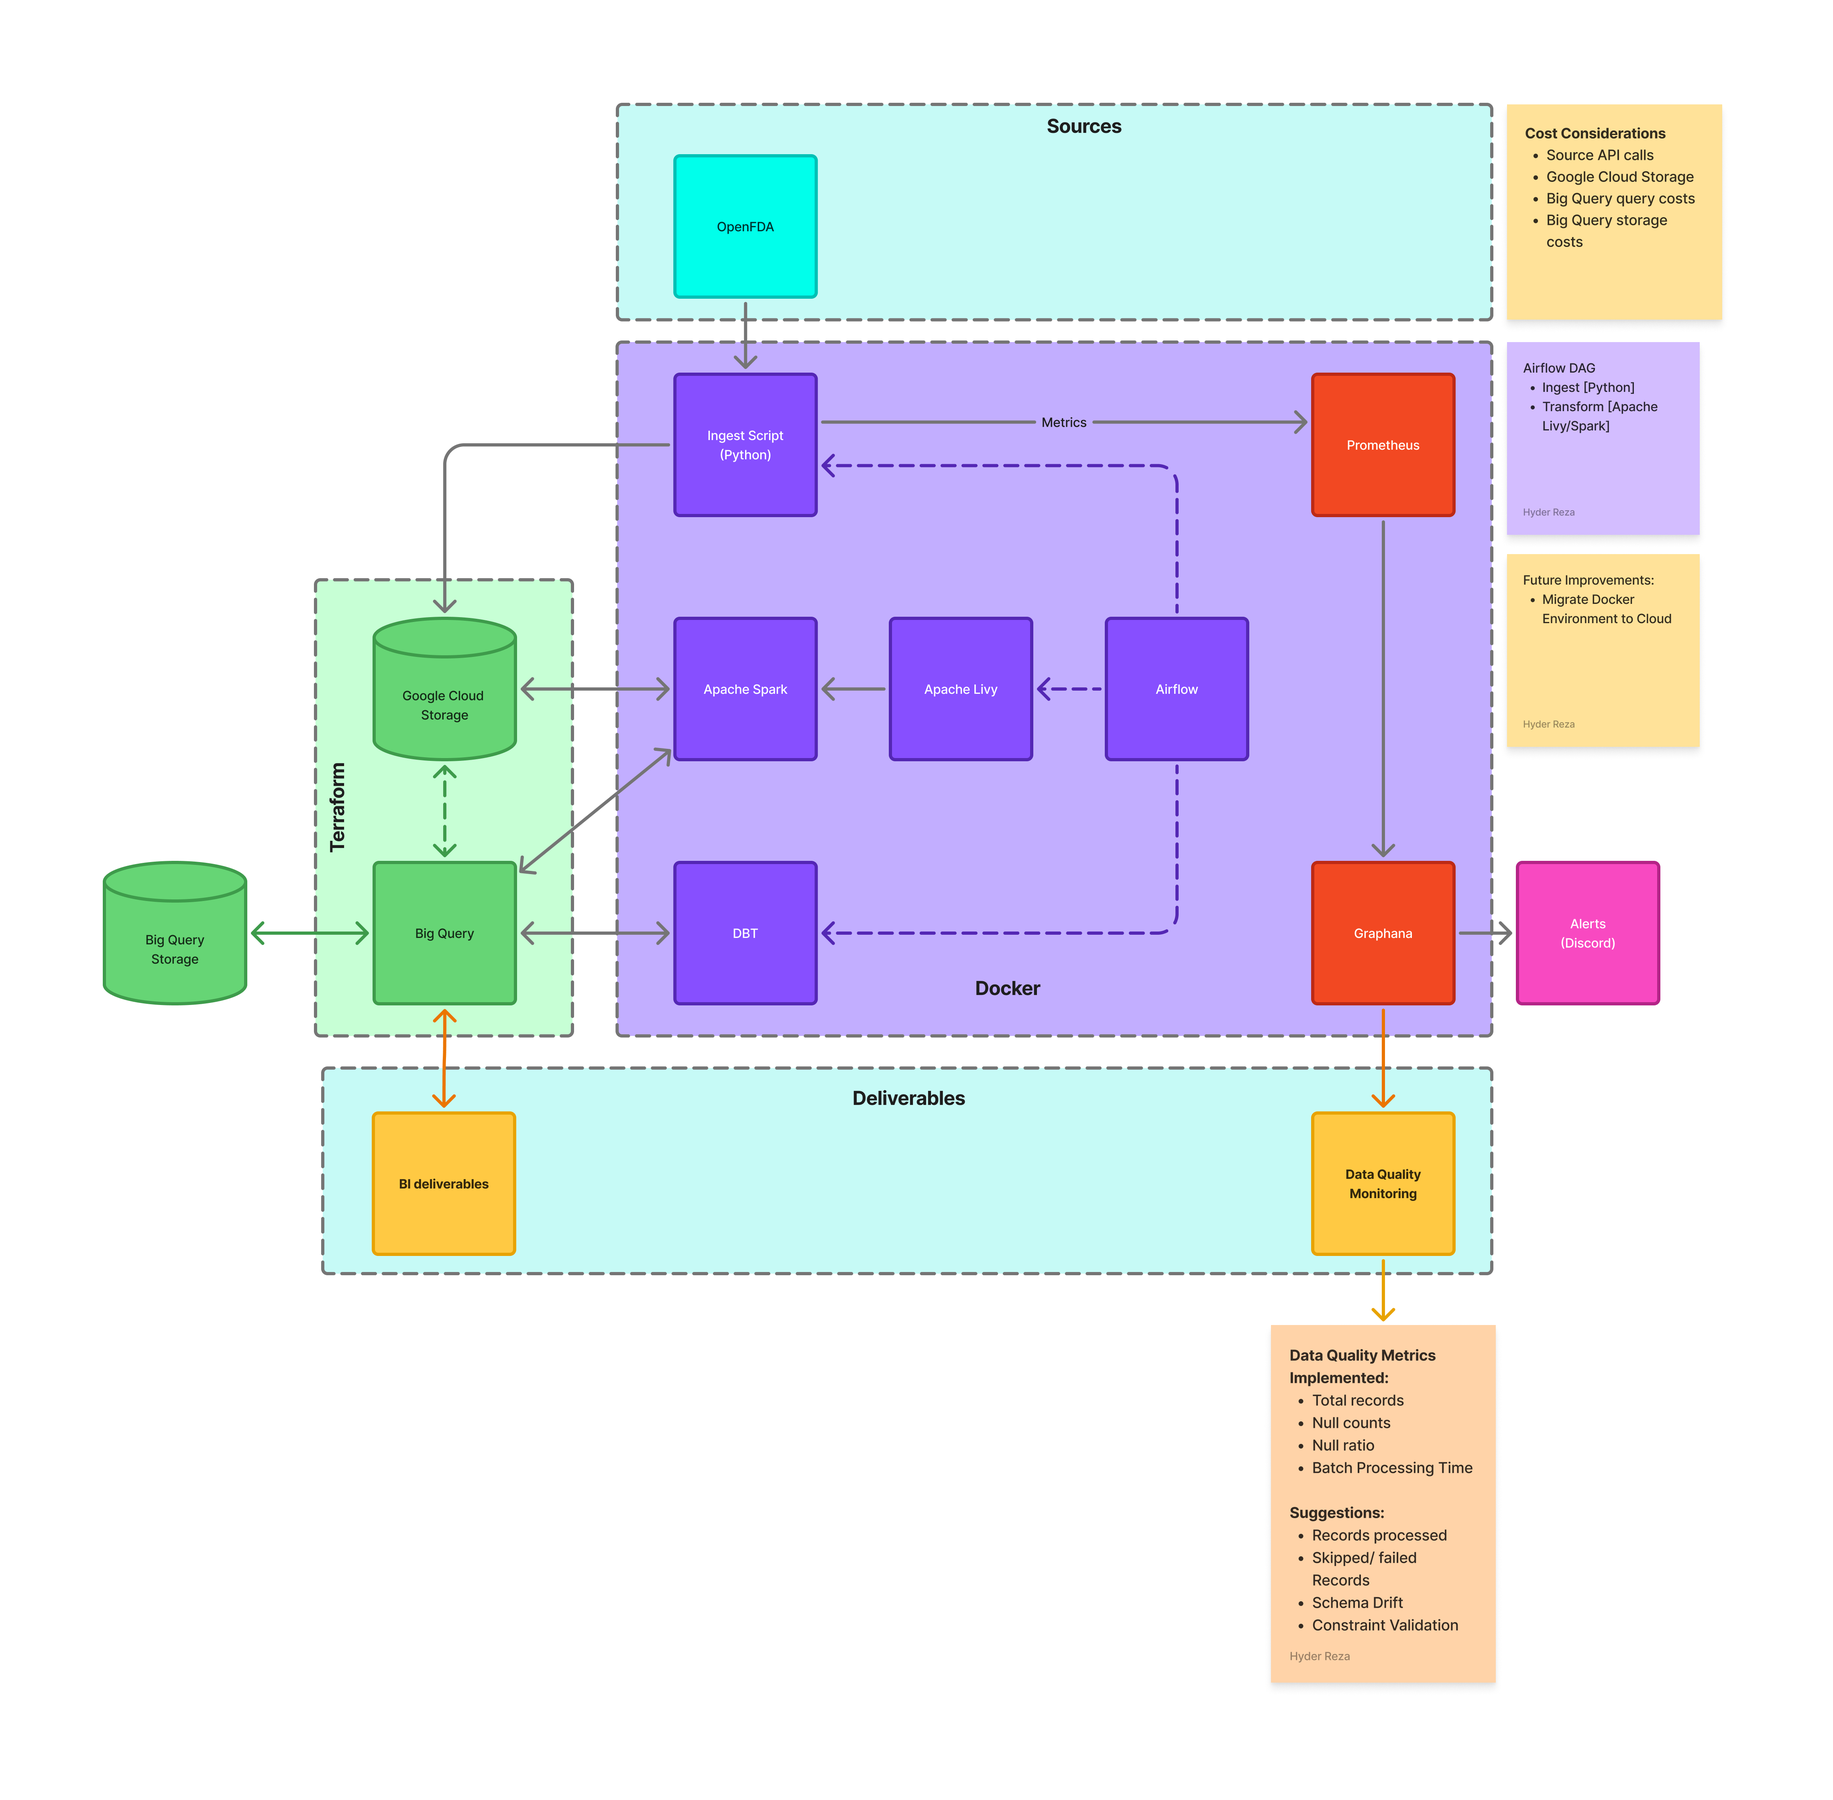
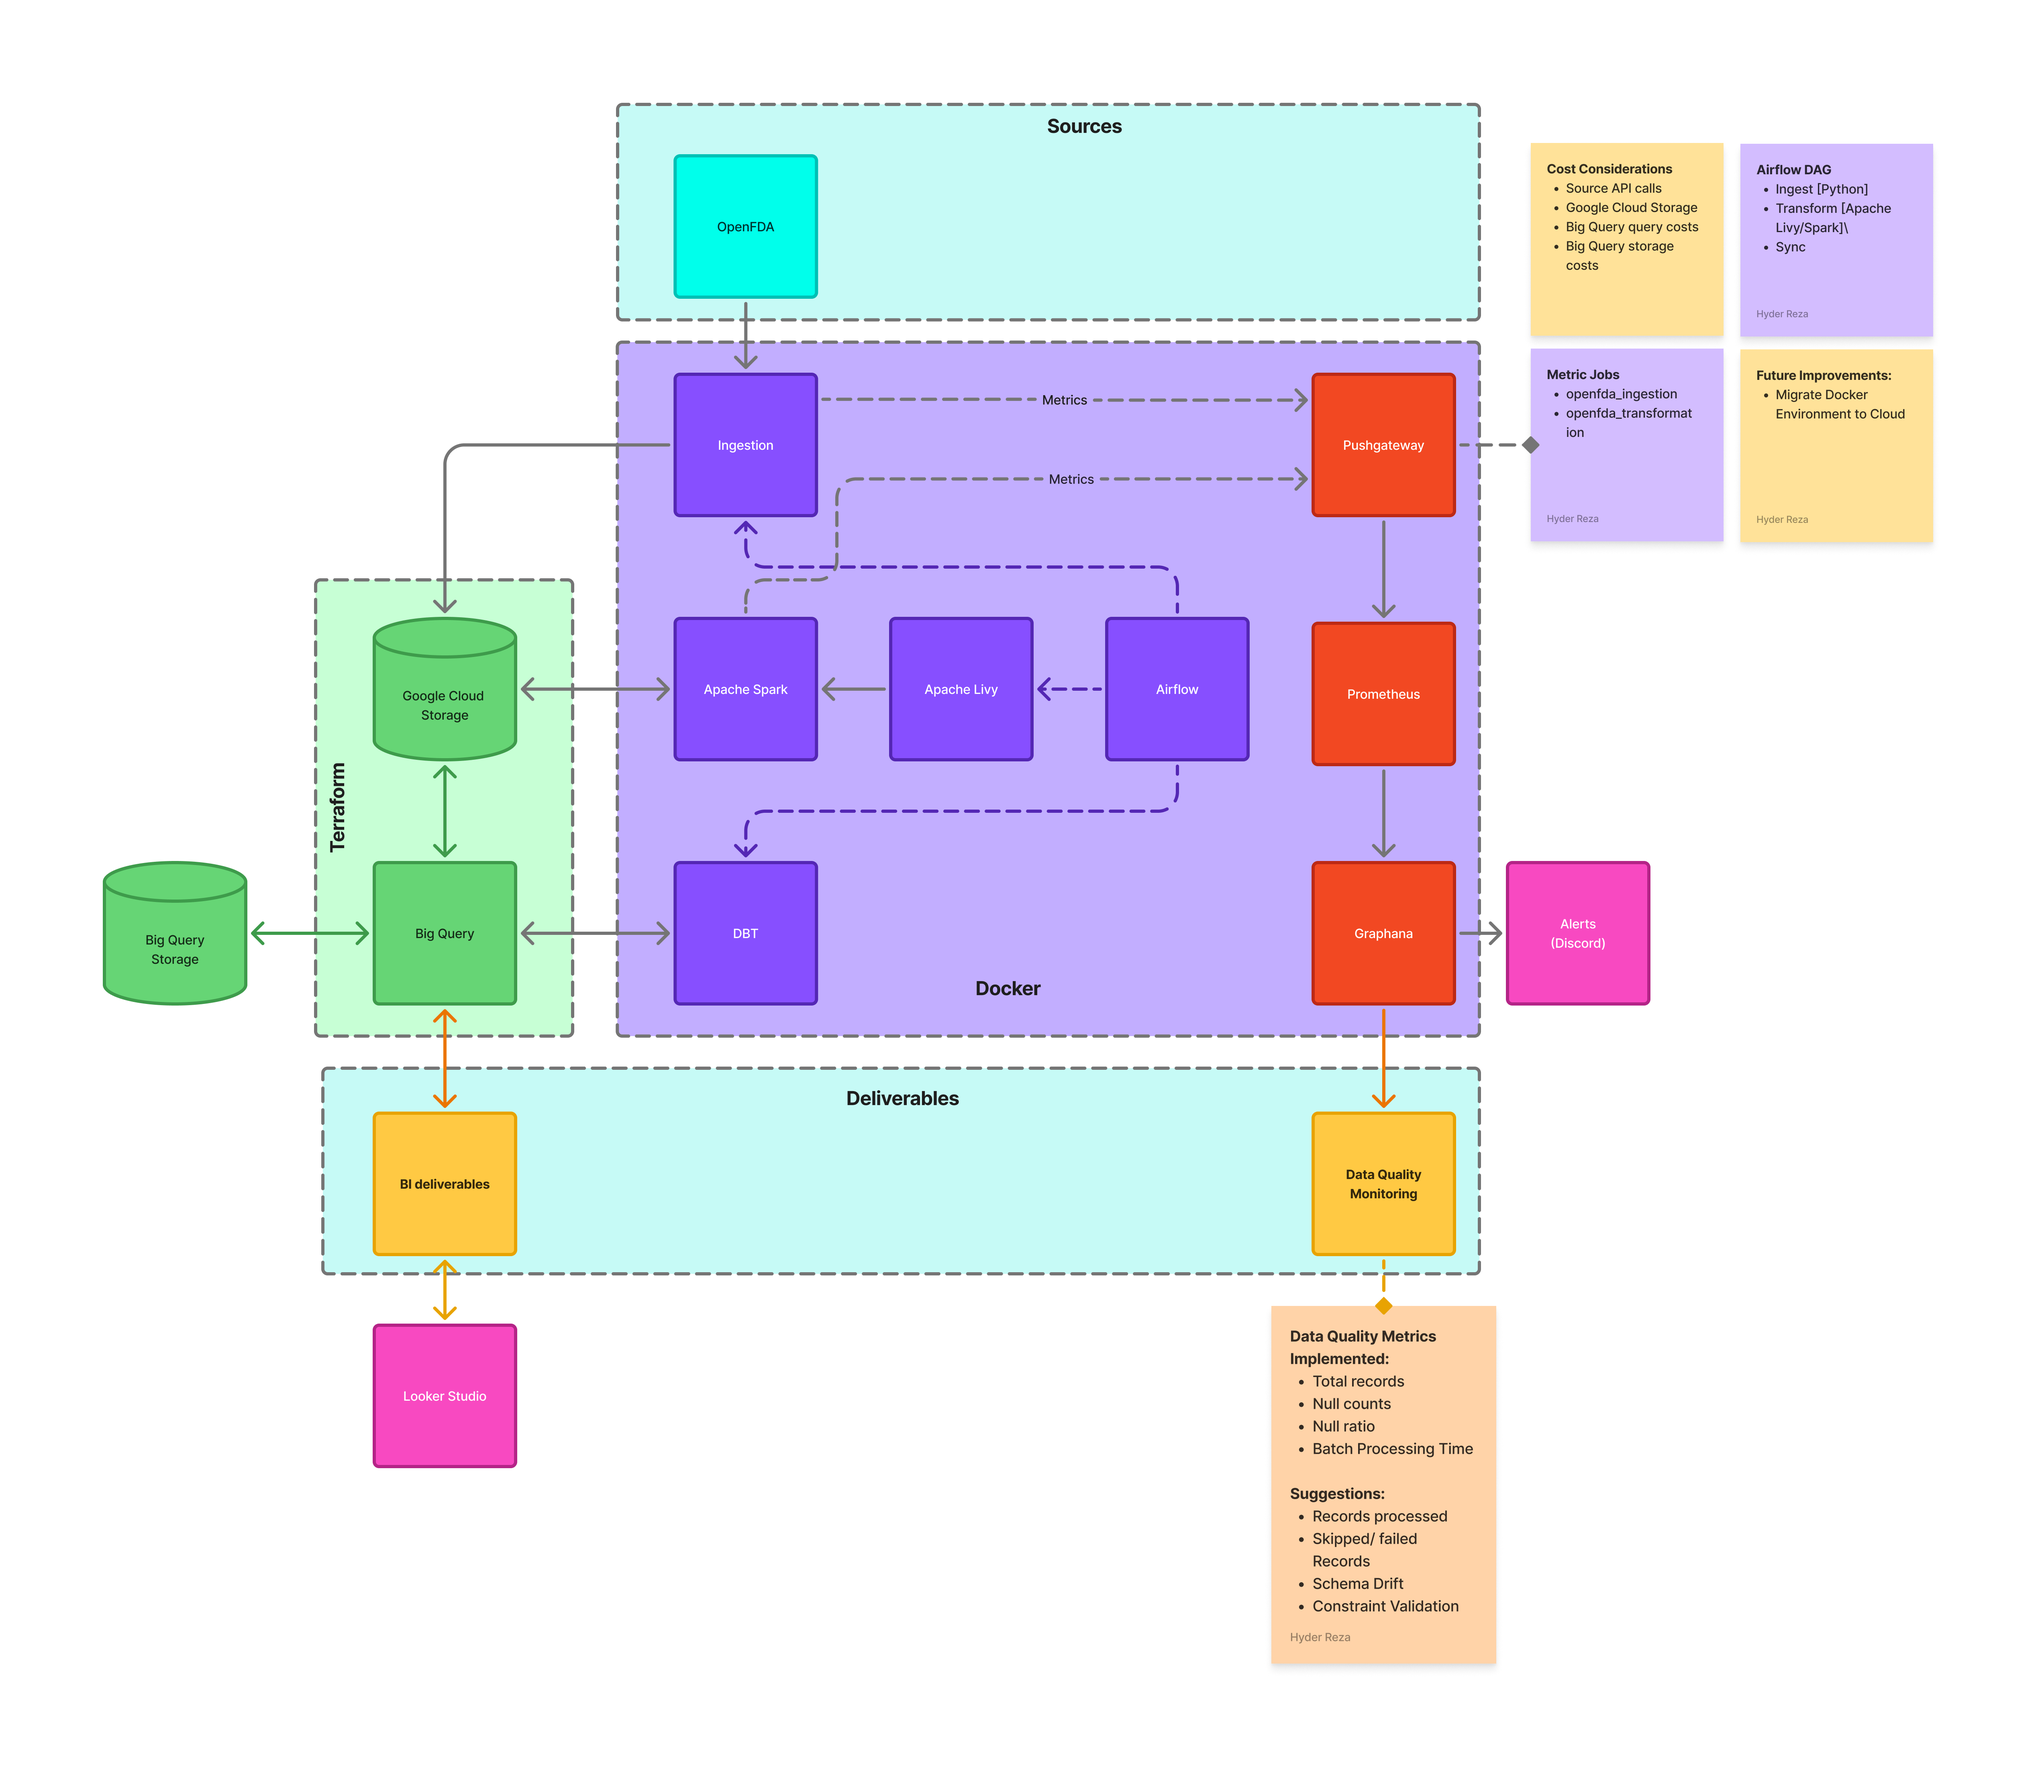
Fixed issue preventing from running spark job

Changed region(s): [[0.0311, 0.0311, 0.9641, 0.9335], [0.2177, 0.2489, 0.2488, 0.28]]

diff --git a/spark/jobs/process_raw_layer/utils/tasks.py b/spark/jobs/process_raw_layer/utils/tasks.py
@@ -15,6 +15,7 @@ def process_parquet(params, year, dedup_strategy = "row_hash"):
     spark = params['spark']
     bucket = params['bucket']
     schema = params['schema']
+    dir = params['dir']
     metrics = params['metrics']
     schema_classes = {
         'patient' : patient.Patient,
@@ -39,7 +40,7 @@ def process_parquet(params, year, dedup_strategy = "row_hash"):
         metrics.update(obj)
 
         if dedup_strategy == 'row_hash':
-            df = df.withColumns("_dedup_key", F.sha2(F.concat_ws("||"),256))
+            df = df.withColumn("_dedup_key", F.sha2(F.concat_ws("||"),256))
             df = df.dropDuplicates(["_dedup_key"]).drop("_dedup_key")
         elif dedup_strategy == 'col_key' and 'patientid' in df.columns:
             df = df.dropDuplicates(["patientid"])
